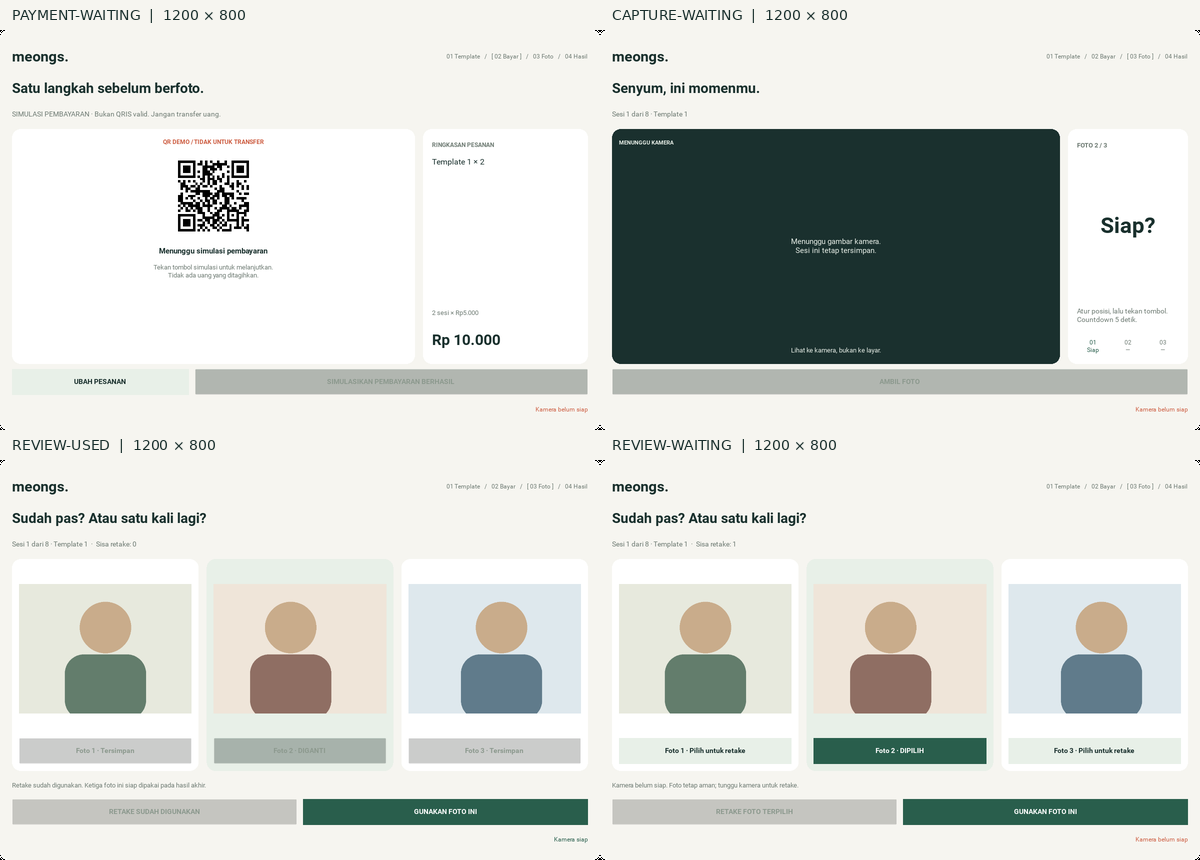
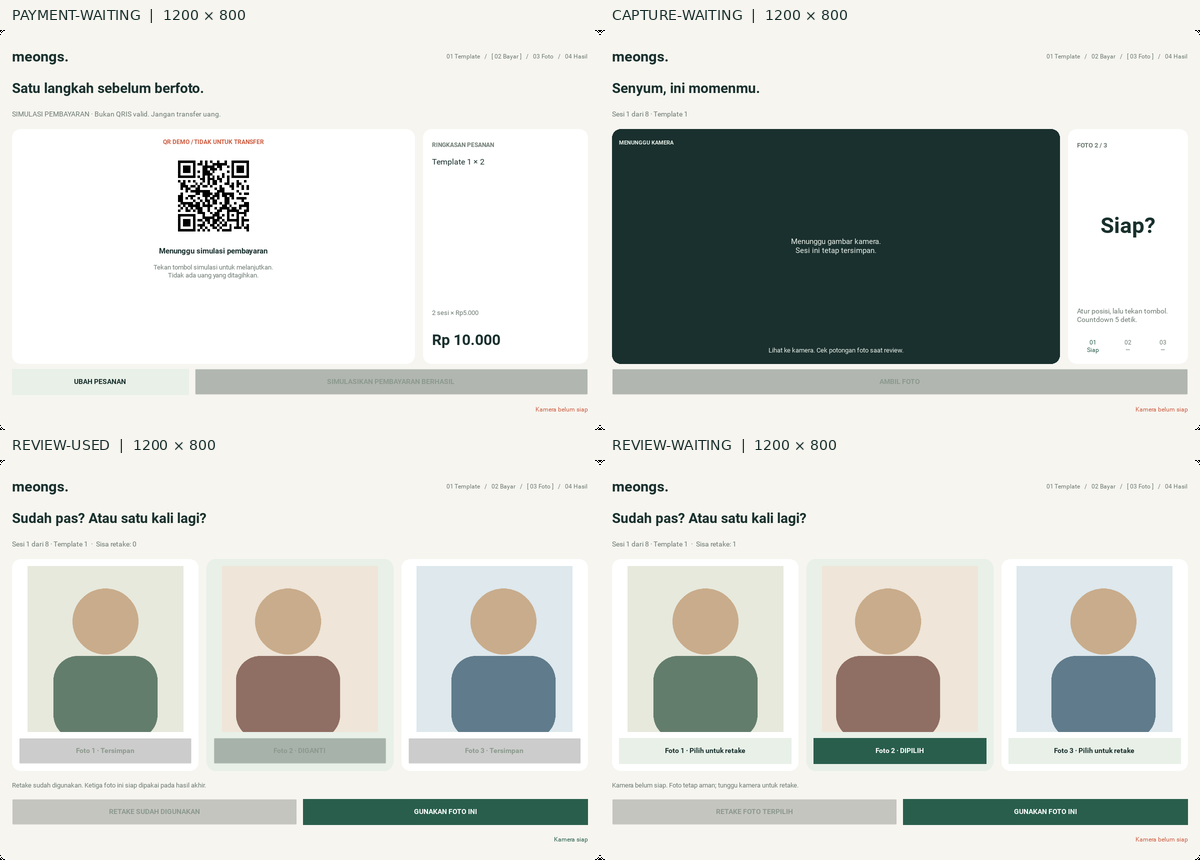
Match review thumbnails to the saved photo frame crop
Use one 470x500 center-crop helper for review and composition. Keep the established output pixels, raw captures, pricing, and folder QR unchanged. Explain that final framing is checked during review while the camera remains full-view.

Validation: 40 tests passed; 32 real-widget renders at 1200x800 and 800x600. A new GPU regression first reproduced the mismatch, then matched saved output pixels before/after retake with landscape, portrait, square, and replacement sources. Compatibility tests preserve RGB/RGBA/grayscale output and source bytes. Six rendered review states record exact output agreement.

Camera and Drive use deterministic fakes. QRIS is still a simulation; physical printing is not integrated.

diff --git a/tests/test_kivy_gui.py b/tests/test_kivy_gui.py
@@ -13,6 +13,72 @@ from types import SimpleNamespace
 
 @unittest.skipUnless(os.environ.get('PHOTOBOOTH_TEST_GUI') == '1', 'GUI checks are opt-in')
 class KivyFlowTests(unittest.TestCase):
+    def test_review_pixels_match_the_saved_frame_before_and_after_retake(self):
+        """Retake decisions must use the same crop as the accepted composition.
+
+        Landscape, portrait, and square sources have deliberately different
+        edge colors. Merely keeping a thumbnail inside its card would still
+        pass if it showed edges that the saved result removes. Compare actual
+        GPU pixels against each saved output frame at both desktop sizes, then
+        repeat with a replacement photo and check that raw files stay intact.
+        """
+        from PIL import Image, ImageDraw
+        from kivy.base import EventLoop
+        from kivy.core.window import Window
+        from kivy.uix.image import Image as KivyImage
+        from photobooth.catalog import compose_result, get_templates
+        from photobooth.ui_kivy import KivyHost, PhotoBoothUI
+
+        ui = PhotoBoothUI(KivyHost(lambda: None), get_templates(),
+                          on_select_photo=lambda *_: None, on_retake=lambda: None,
+                          on_accept_session=lambda: None)
+        Window.add_widget(ui.shell)
+        original_size = Window.size
+        try:
+            with tempfile.TemporaryDirectory() as directory:
+                root = Path(directory)
+                paths = []
+                for index, size in enumerate(((640, 480), (480, 640), (480, 480), (800, 450))):
+                    source = Image.new('RGB', size, '#74a186')
+                    draw = ImageDraw.Draw(source)
+                    width, height = size
+                    draw.rectangle((0, 0, width // 8, height), fill='#d94444')
+                    draw.rectangle((width * 7 // 8, 0, width, height), fill='#3c69c4')
+                    draw.rectangle((0, 0, width, height // 8), fill='#ecc94b')
+                    draw.rectangle((0, height * 7 // 8, width, height), fill='#9d5bc1')
+                    draw.line((0, 0, width - 1, height - 1), fill='white', width=7)
+                    path = root / f'raw-{index}.png'
+                    source.save(path)
+                    paths.append(path)
+                raw_bytes = [path.read_bytes() for path in paths]
+                for size in ((1200, 800), (800, 600)):
+                    Window.size = size
+                    for used in (False, True):
+                        with self.subTest(size=size, retake_used=used):
+                            final_paths = [paths[0], paths[3] if used else paths[1], paths[2]]
+                            output = compose_result(final_paths, ui.templates[0], root / 'result.png',
+                                                    'PB001_00000001', 'session_001')
+                            saved_output = output.read_bytes()
+                            ui.show_review(final_paths, 'Sesi 1 dari 1', 1, not used)
+                            for _ in range(6):
+                                EventLoop.idle()
+                            thumbnails = sorted((widget for widget in ui.content.walk()
+                                                 if isinstance(widget, KivyImage)), key=lambda w: w.x)
+                            self.assertEqual(len(thumbnails), 3)
+                            with Image.open(output) as result:
+                                for index, widget in enumerate(thumbnails):
+                                    self.assertEqual(widget.texture.size, (470, 500))
+                                    shown = Image.frombytes('RGBA', widget.texture.size,
+                                                            widget.texture.pixels).convert('RGB')
+                                    left = 155 + index * 510
+                                    saved = result.crop((left, 195, left + 470, 695))
+                                    self.assertEqual(shown.tobytes(), saved.tobytes())
+                            self.assertEqual(output.read_bytes(), saved_output)
+                self.assertEqual([path.read_bytes() for path in paths], raw_bytes)
+        finally:
+            Window.remove_widget(ui.shell)
+            Window.size = original_size
+
     def test_button_callbacks_ignore_disabled_and_retired_screen_controls(self):
         """A queued release is checked again even after normal hit testing."""
         from photobooth.catalog import get_templates

diff --git a/photobooth/ui_kivy.py b/photobooth/ui_kivy.py
@@ -24,7 +24,7 @@ from kivy.uix.popup import Popup
 from kivy.uix.scrollview import ScrollView
 from kivy.uix.widget import Widget
 from PIL import Image
-from photobooth.catalog import PRICE_PER_SESSION, create_template_preview
+from photobooth.catalog import PRICE_PER_SESSION, create_template_preview, fit_result_photo
 
 NAVY = (0.106, 0.227, 0.376, 1)
 MUTED = (0.39, 0.44, 0.52, 1)
@@ -360,7 +360,7 @@ class PhotoBoothUI:
             return 'Retake sudah digunakan. Ketiga foto ini siap dipakai pada hasil akhir.'
         if not self._camera_ready:
             return 'Kamera belum siap. Foto tetap aman; tunggu kamera untuk retake.'
-        return 'Pilih satu foto untuk retake. Ketiga foto dipakai pada hasil akhir.'
+        return 'Pilih satu foto untuk retake. Pratinjau sesuai potongan hasil akhir.'
 
     def _set_preview_live(self, live):
         """Show an intentional empty state instead of Kivy's white null texture."""
@@ -561,7 +561,8 @@ class PhotoBoothUI:
         camera.add_widget(preview_stage)
         if preview_image is not None and self._camera_ready:
             self.update_live_preview(preview_image)
-        camera.add_widget(self._label('Lihat ke kamera, bukan ke layar.', 13, 28, color=SOFT, align='center'))
+        camera.add_widget(self._label('Lihat ke kamera. Cek potongan foto saat review.',
+                                       13, 28, color=SOFT, align='center'))
         guide = Panel(orientation='vertical', padding=dp(18), spacing=dp(10))
         guide.add_widget(self._label('FOTO PENGGANTI' if is_retake else f'FOTO {min(capture_count + 1, 3)} / 3',
                                      13, 28, color=GREY, bold=True))
@@ -626,7 +627,13 @@ class PhotoBoothUI:
             self.capture_button.disabled = not (enabled and self._camera_ready)
 
     def show_review(self, photo_paths, session_label, selected_index, retake_available, status_message=''):
-        """Review all three photos; mark the exact selected retake target."""
+        """Review the final frame crops and mark the exact retake target.
+
+        Showing the full camera aspect ratio here used to expose side content
+        absent from the final strip. Render the composer's exact RGB crop, then
+        contain that frame in the card without stretching or cropping it again.
+        The raw source is opened read-only and never resized in place.
+        """
         page = self._reset('review', 'Sudah pas? Atau satu kali lagi?',
                            f'{session_label}  ·  Sisa retake: {int(retake_available)}')
         self._review_can_retake = selected_index is not None and retake_available
@@ -648,8 +655,7 @@ class PhotoBoothUI:
             card = Panel(fill=SOFT if selected else WHITE, orientation='vertical',
                          padding=dp(14), spacing=dp(12), size_hint_y=None, height=dp(290))
             with Image.open(path) as source:
-                display = source.convert('RGB')
-                display.thumbnail((600, 450))
+                display = fit_result_photo(source)
             card.add_widget(self._display(display))
             caption = (' · DIPILIH' if selected else ' · Pilih untuk retake') if retake_available else (
                 ' · DIGANTI' if selected else ' · Tersimpan')

diff --git a/photobooth/catalog.py b/photobooth/catalog.py
@@ -32,6 +32,11 @@ class BoothTemplate:
 # Keep the tariff in one place so gallery, cart, and payment cannot disagree.
 PRICE_PER_SESSION = 5000
 
+# All current templates use this exact photo aperture. Review thumbnails and
+# the saved composition must share it; a full-camera thumbnail can otherwise
+# show a face near an edge that the final center crop silently removes.
+PHOTO_FRAME_SIZE = (470, 500)
+
 TEMPLATES = (
     BoothTemplate(
         template_id="template_a",
@@ -136,6 +141,22 @@ def create_template_preview(
     return image
 
 
+def fit_result_photo(source: Image.Image) -> Image.Image:
+    """Return the final frame pixels without changing the original capture.
+
+    Keep the established center-crop and LANCZOS resampling in one place so
+    review and composition cannot drift apart. This returns a new RGB image;
+    raw captures, replacement files, and previously saved results stay intact.
+    Every current template uses the same aperture, not the camera aspect ratio.
+    """
+    return ImageOps.fit(
+        source.convert("RGB"),
+        PHOTO_FRAME_SIZE,
+        method=getattr(Image, "Resampling", Image).LANCZOS,
+        centering=(0.5, 0.5),
+    )
+
+
 def compose_result(
     photo_paths: Sequence[Path],
     template: BoothTemplate,
@@ -179,28 +200,19 @@ def compose_result(
         font=_font(27, bold=True),
     )
 
-    photo_width = 470
     # Reserve a dedicated footer for the scannable QR. It must never overlap
     # faces or be cropped together with a photo. Output remains 1800x1000.
-    photo_height = 500
+    photo_width, photo_height = PHOTO_FRAME_SIZE
     gap = 40
     # Center three fixed-size frames as a group instead of spacing them relative to the window.
     total_photos_width = photo_width * 3 + gap * 2
     left = (width - total_photos_width) // 2
     first_top = 195
-    resampling = getattr(Image, "Resampling", Image).LANCZOS
-
     for index, photo_path in enumerate(photo_paths):
         photo_left = left + index * (photo_width + gap)
         top = first_top
         with Image.open(photo_path) as source:
-            # Fit crops excess edges when needed, preserving the same frame shape for each photo.
-            photo = ImageOps.fit(
-                source.convert("RGB"),
-                (photo_width, photo_height),
-                method=resampling,
-                centering=(0.5, 0.5),
-            )
+            photo = fit_result_photo(source)
         draw.rounded_rectangle(
             (
                 photo_left - 11,

diff --git a/tools/render_gui.py b/tools/render_gui.py
@@ -25,6 +25,7 @@ import cv2
 from PIL import Image, ImageDraw, ImageFont
 from kivy.clock import Clock
 from kivy.core.window import Window
+from kivy.uix.image import Image as KivyImage
 from kivy.uix.scrollview import ScrollView
 
 from photobooth.catalog import compose_result, get_templates
@@ -197,6 +198,26 @@ def main():
                 raise AssertionError('Retake must be disabled when its quota or camera is unavailable')
             record = {'screen': name, 'size': list(size), 'file': path.name,
                       'stage_fits': fits, 'decoded_qr': decoded}
+            if ui.current_screen == 'review':
+                # A visible thumbnail can still misrepresent the final crop.
+                # Compare its real texture against the saved composition, not
+                # against a second call to the same thumbnail implementation.
+                thumbnails = sorted((widget for widget in ui.content.walk()
+                                     if isinstance(widget, KivyImage)), key=lambda w: w.x)
+                if len(thumbnails) != 3:
+                    raise AssertionError(f'{name} must show all three review frames')
+                with Image.open(result) as composition:
+                    for index, widget in enumerate(thumbnails):
+                        if widget.texture.size != (470, 500):
+                            raise AssertionError(f'{name} shows a different photo aperture')
+                        shown = Image.frombytes('RGBA', widget.texture.size,
+                                                widget.texture.pixels).convert('RGB')
+                        left = 155 + index * 510
+                        saved = composition.crop((left, 195, left + 470, 695))
+                        if shown.tobytes() != saved.tobytes():
+                            raise AssertionError(f'{name} differs from its saved result frame')
+                record['review_frame_size'] = [470, 500]
+                record['review_matches_output'] = True
             if ui.current_screen == 'templates':
                 selected = [key for key, card in ui._template_cards.items() if card.selected]
                 expected = [key for key, quantity in ui.quantities.items() if quantity > 0]

diff --git a/tests/test_workflow.py b/tests/test_workflow.py
@@ -6,15 +6,34 @@ from pathlib import Path
 import tempfile
 import unittest
 
-from PIL import Image
+from PIL import Image, ImageDraw, ImageOps
 
-from photobooth.catalog import compose_result, get_templates
+from photobooth.catalog import compose_result, fit_result_photo, get_templates
 from photobooth.transaction_store import TransactionStore
 from photobooth.workflow import PhotoSession, build_session_plans
 
 
 class WorkflowTests(unittest.TestCase):
     # Test session planning and the one-retake-per-session business rule.
+    def test_shared_review_crop_preserves_the_established_output_pixels(self):
+        """Centralizing framing must not change the existing composition crop."""
+        for mode, size in (('RGB', (640, 480)), ('RGBA', (480, 640)), ('L', (480, 480))):
+            with self.subTest(mode=mode, size=size):
+                source = Image.new(mode, size, 0)
+                draw = ImageDraw.Draw(source)
+                draw.rectangle((0, 0, size[0] // 2, size[1] // 2), fill=127)
+                draw.line((0, size[1] - 1, size[0] - 1, 0), fill=255, width=9)
+                before = source.tobytes()
+                legacy = ImageOps.fit(source.convert('RGB'), (470, 500),
+                                      method=Image.Resampling.LANCZOS, centering=(0.5, 0.5))
+                actual = fit_result_photo(source)
+                self.assertEqual(actual.mode, 'RGB')
+                self.assertEqual(actual.size, (470, 500))
+                self.assertEqual(actual.tobytes(), legacy.tobytes())
+                self.assertEqual(source.size, size)
+                self.assertEqual(source.mode, mode)
+                self.assertEqual(source.tobytes(), before)
+
     def test_quantities_create_independent_ordered_sessions(self):
         # Verify template quantities expand into separate sessions in the same order as the picker.
         templates = get_templates()

diff --git a/docs/qa/README.md b/docs/qa/README.md
@@ -3,6 +3,7 @@
 Layout baseline: `c518e91df5a8311a08a167043e0f1e74aa50555c` on `feature/kivy-gui`.
 The frame-recovery follow-up starts from `a6707e6c7168248c7b80b1b36c8042cd7de1f20f`.
 The screen-action/selection follow-up starts from `26e27a722ab965e62d78b572b9c1b1e39634e6ff`.
+The faithful-review follow-up starts from `1f5f3cda5a6bcba7718afa415e13726a54ec7b32`.
 The original working copy was left untouched. Source files in the separate
 checkout were checked against the freshly fetched GitHub blobs before editing.
 
@@ -28,6 +29,7 @@ scrolling area. Payment back-navigation also retains the customer's quantities.
 | Preview and waiting overlay stay inside their image slot | Passed | Passed |
 | Selected-card feedback matches nonzero quantities | Passed | Passed |
 | Empty quantities disable the decrement control | Passed | Passed |
+| Review pixels match the saved photo crop before/after retake | Passed | Passed |
 
 The image sheets below contain the six main screens. The reproducible renderer
 also includes countdown, bottom-of-gallery, retake-used, local-only, and next-session
@@ -80,6 +82,26 @@ The controller separately rejects completion during capture or at an intermediat
 result. The test then advances both sessions and all 60 completion ticks, proving
 that the final automatic return still works and does not wait for Drive upload.
 
+## Faithful photo framing during review
+
+The previous review thumbnails retained the camera aspect ratio, whereas the
+saved result center-crops into 470x500 frames. A new GPU regression first failed
+at both desktop sizes, before and after retake. Review now shares the exact crop
+function used by composition. The overview and state sheets above show the new
+portrait-shaped thumbnails without stretching or changing their action layout.
+
+Tests compare actual GPU pixels against the three saved output frames, using
+landscape, portrait, square, and replacement sources. They check raw files and
+saved output bytes remain untouched by review. A separate compatibility check
+proves that the extracted crop function keeps the established output pixels for
+RGB, RGBA, and grayscale input. The existing composition geometry and QR footer
+are unchanged. The live camera remains an uncropped view; its caption tells the
+customer to inspect the final crop during review.
+
+All six rendered review states (ready, quota used, and camera waiting at each
+size) record `review_matches_output: true` and `review_frame_size: [470, 500]`
+in [report.json](report.json).
+
 ## Reproduce
 
 Python 3.12.14, Kivy 2.3.1, OpenCV 5.0.0, SDL2 offscreen, and Mesa llvmpipe were used. No webcam,
@@ -90,7 +112,7 @@ SDL_VIDEODRIVER=offscreen PHOTOBOOTH_TEST_GUI=1 python -m unittest discover -s t
 SDL_VIDEODRIVER=offscreen python tools/render_gui.py --output-dir /tmp/photobooth-gui-qa
 ```
 
-The suite passed **38 tests**. Its controller/storage checks include two-session
+The suite passed **40 tests**. Its controller/storage checks include two-session
 orders, one retake per session, local PNG and manifest persistence, cached folder
 allocation, an offline upload failure followed by retry, and skipping verified
 uploads. Camera acquisition and Drive access use deterministic fakes. The layout

diff --git a/README.md b/README.md
@@ -376,3 +376,23 @@ not block completion. Validation: **38 tests passed** and **32 real-widget rende
 completed, including the 60-second automatic return, stale navigation/completion,
 popup dismissal, selected-card state, and the existing capture/storage/retry and
 painted-QR checks. See the updated [visual evidence](docs/qa/README.md).
+
+### Review matches the final photo crop
+
+Review previously displayed the full camera frame, while the saved composition
+center-cropped each photo into a 470x500 aperture. Content visible at the edges
+during review could therefore disappear after acceptance. Review now uses the
+same crop function as composition, including the replacement photo after a
+retake. All three thumbnails keep that aspect ratio without stretching.
+
+The live camera still shows its full field of view; its caption directs the
+customer to check the final crop during review. Raw photos remain full-sized,
+and the established output crop, 1800x1000 composition, folder QR, pricing,
+and previously saved results are unchanged.
+
+Validation: **40 tests passed** and **32 real-widget renders** completed at both
+desktop sizes. New checks compare GPU review pixels with saved output frames
+before/after retake, using landscape, portrait, and square sources. They also
+verify that source files and existing output bytes are not modified by review.
+The render report records exact crop agreement in all six review states.
+Camera and Drive checks still use fakes; no live-device claim is implied.
